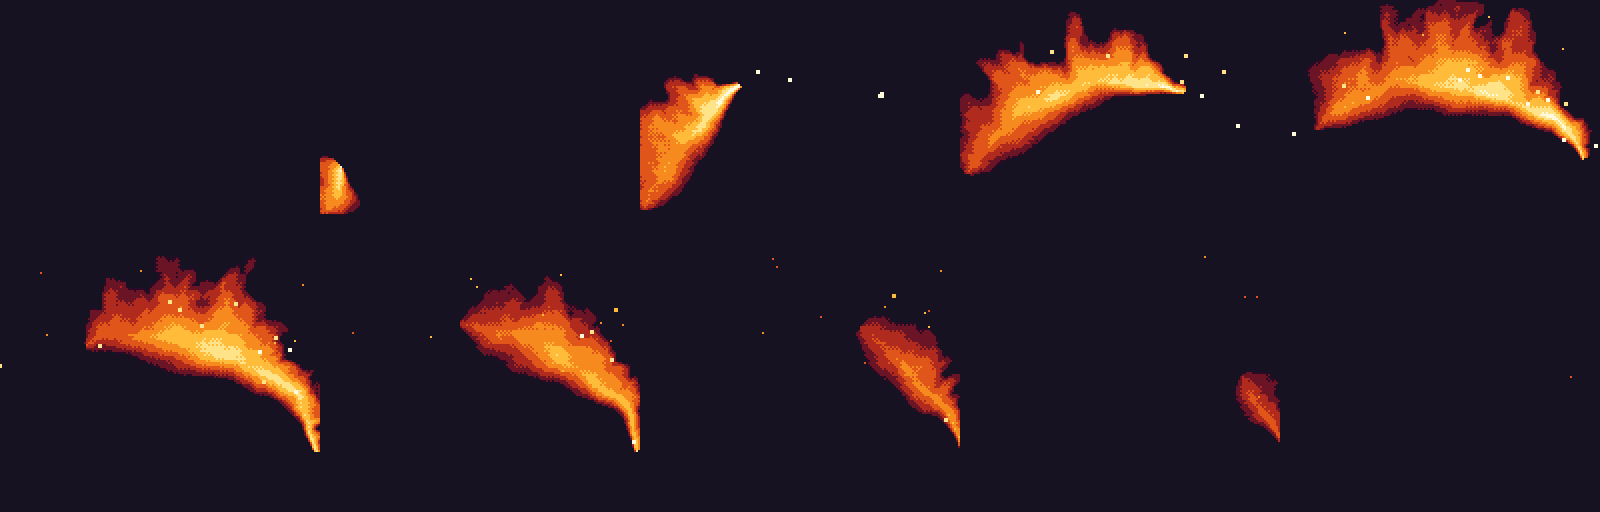
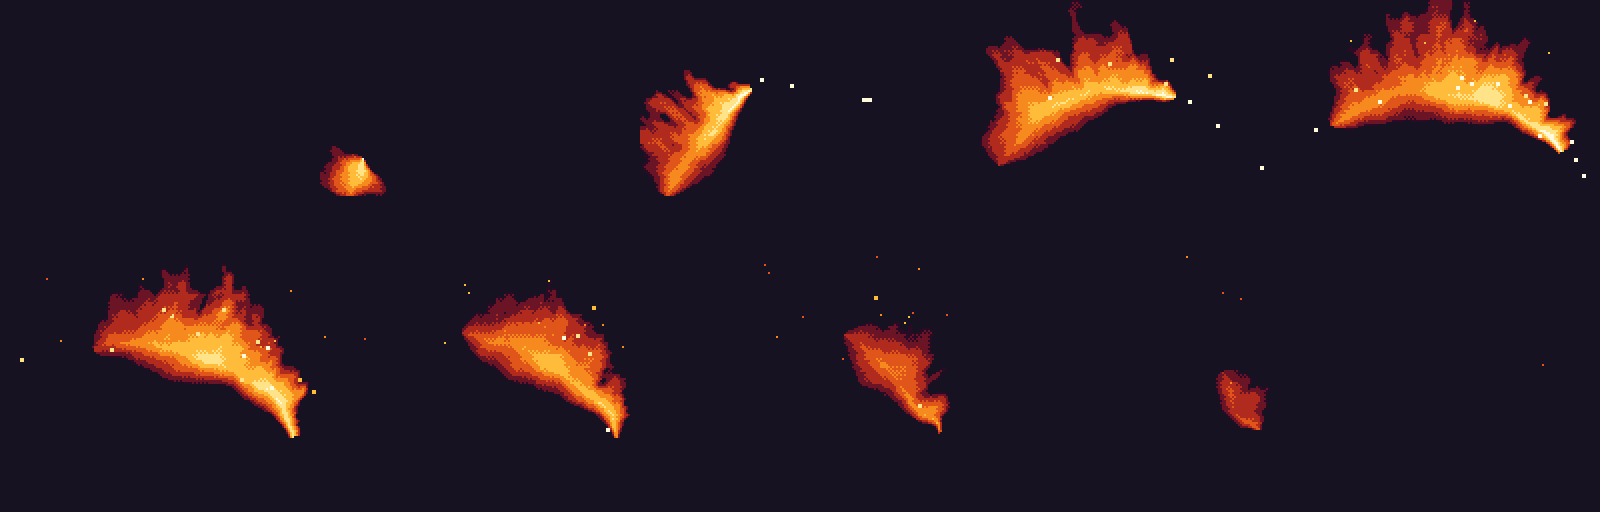
炎の斬撃：枠からはみ出さない大きさに直す

diff --git a/games/farmhouse/pixel/gen_fire_slash.py b/games/farmhouse/pixel/gen_fire_slash.py
@@ -35,7 +35,7 @@ BAYER = np.array([[0, 8, 2, 10], [12, 4, 14, 6], [3, 11, 1, 9], [15, 7, 13, 5]])
 yy, xx = np.mgrid[0:H, 0:W].astype(float)
 
 # 弧：左上から右下へふる。中心は画面の下のほう
-CX, CY, R = 80.0, 122.0, 82.0
+CX, CY, R = 80.0, 112.0, 68.0
 A0, A1 = math.radians(-168), math.radians(-14)                    # はじまりの角度・おわりの角度（右が0度、上が-90度）
 ease = lambda t: t * t * (3 - 2 * t)
 
